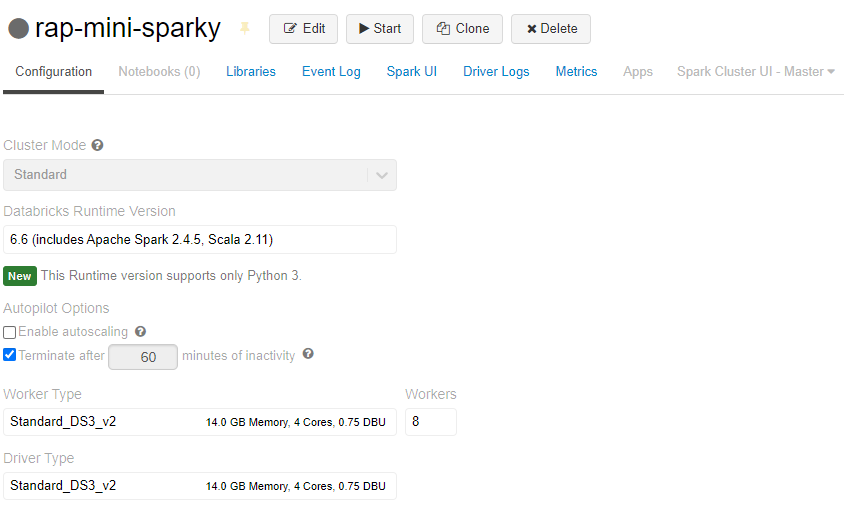
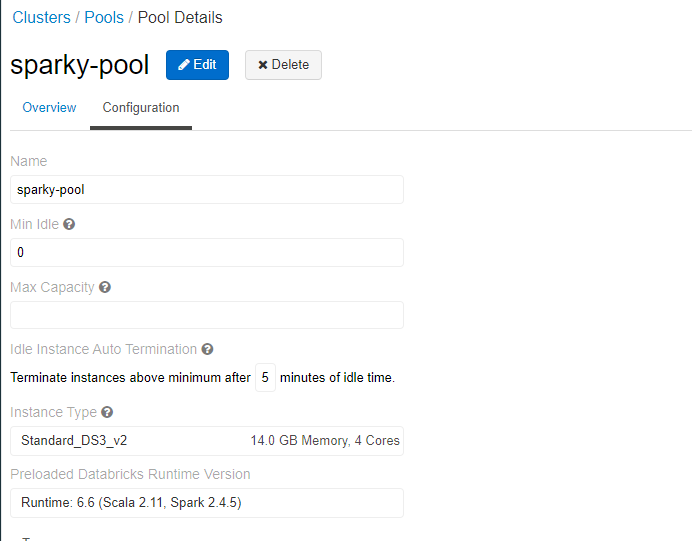
GitBook: [master] one page and 3 assets modified

diff --git a/deployment/deployment-to-microsoft-azure/performing-the-deployment.md b/deployment/deployment-to-microsoft-azure/performing-the-deployment.md
@@ -74,9 +74,15 @@ In the Azure Portal Resource Group that's been created, navigate to the Databric
 
 In Databricks, navigate to the "Clusters" tab. Create a cluster named "rap-mini-sparky". Configure the cluster with the following configurations
 
-![](../../.gitbook/assets/image%20%28274%29.png)
+![](../../.gitbook/assets/image%20%28276%29.png)
 
-Once this cluster is created, navigate to the databricks home screen and create a new notebook. On a command box, add this code snippet:
+Click "Pools" and then "Create Pool". Create a pool called "sparky-pool" with the following configurations
+
+![](../../.gitbook/assets/image%20%28275%29.png)
+
+After the pool is created, save the value called "DatabricksInstancePoolId" in the Tags section of the configuration. This value will be used later when updating the Key Vault.
+
+Navigate to the Databricks home screen and create a new notebook. On a command box, add this code snippet:
 
 ```text
 val databricksPrincipalId = ""
@@ -123,6 +129,8 @@ dbutils.fs.ls("mnt/jars")
 ```
 
 This should not error out and should list the datatypes.avro file.
+
+Next, click on the user dropdown in the top right of the Databricks portal. Click "User Settings" in the dropdown. On the Access Tokens tab, click "Generate New Token". Set the token lifetime to blank, so the token will not expire. Copy the token for use later on \(It will be used in the "Updating Key Vaults" section of this guide.
 
 ## Updating Key Vaults
 
